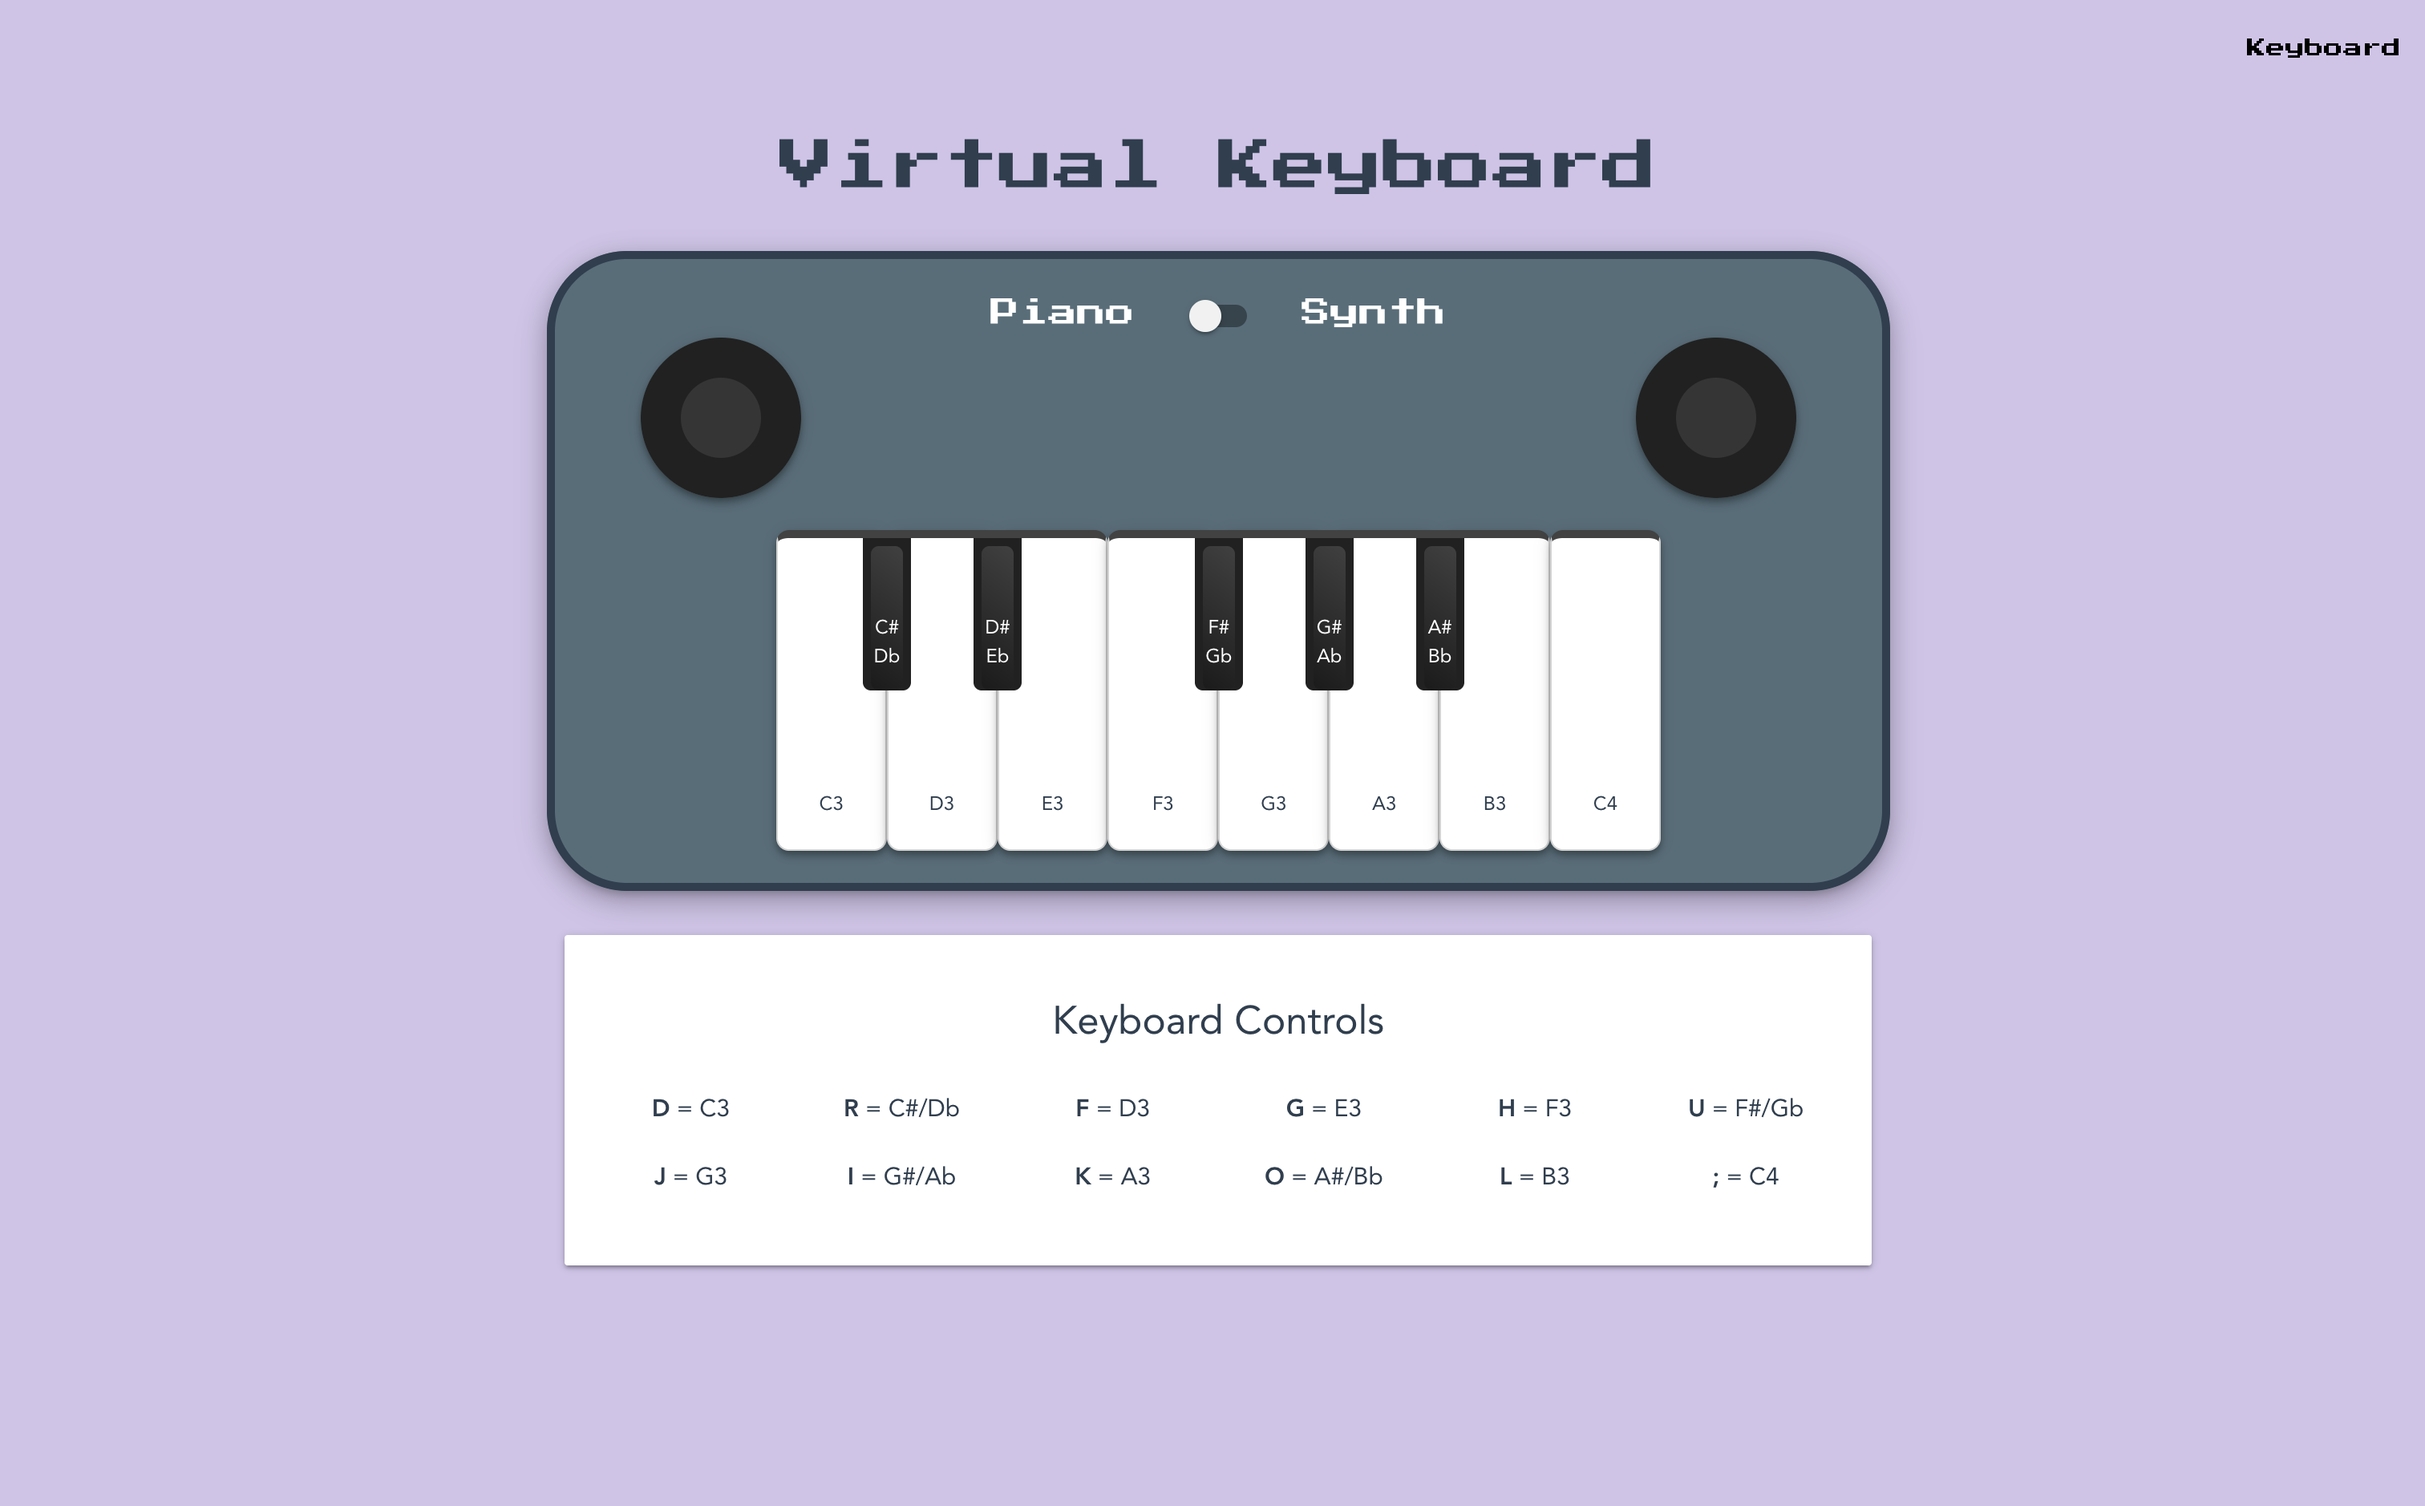
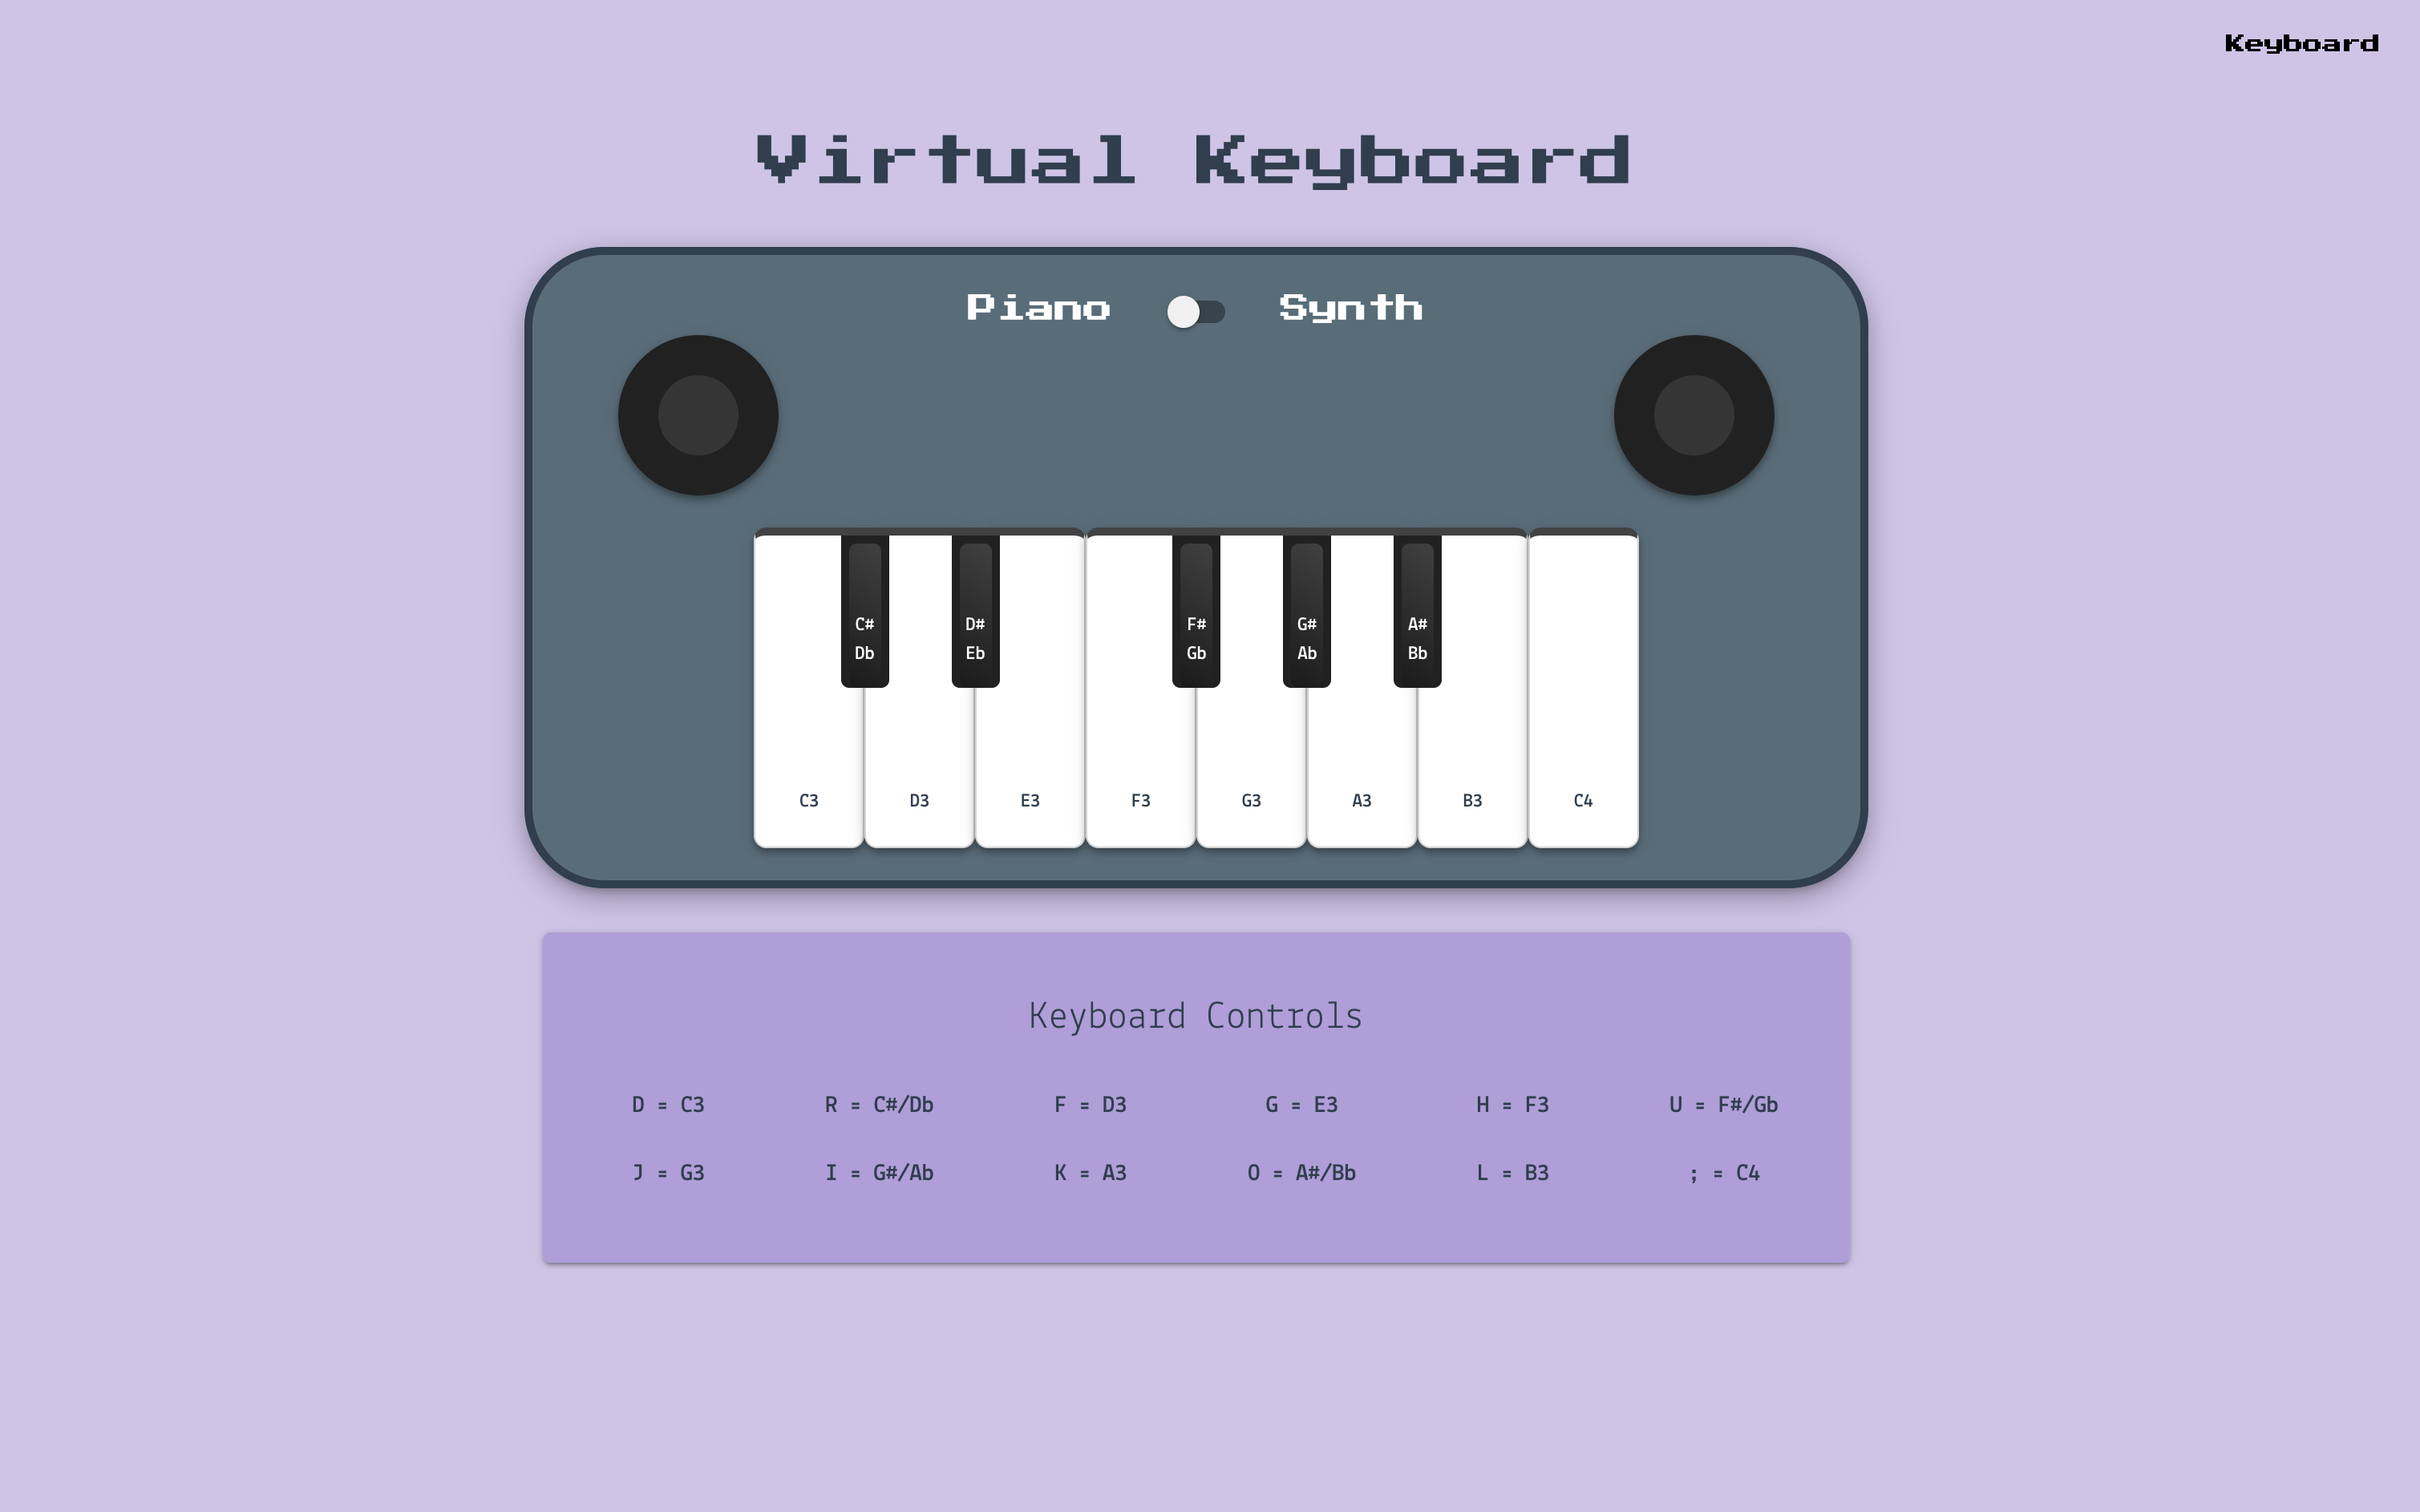
updates

Changed region(s): [[0.1869, 0.1544, 0.7787, 0.8647], [0.3115, 0.0927, 0.6852, 0.1235], [0.9344, 0.0, 0.9655, 0.0618]]

diff --git a/index.html b/index.html
@@ -11,7 +11,7 @@
     <link href="https://fonts.googleapis.com/css2?family=Open+Sans:wght@300&display=swap" rel="stylesheet"> 
     <link rel="preconnect" href="https://fonts.googleapis.com">
     <link rel="preconnect" href="https://fonts.gstatic.com" crossorigin>
-    <link href="https://fonts.googleapis.com/css2?family=Lekton:ital,wght@0,400;0,700;1,400&display=swap" rel="stylesheet">
+    <link href="https://fonts.googleapis.com/css2?family=Lekton:ital,wght@0,400;0,700;1,400&family=Roboto+Mono:ital,wght@0,100..700;1,100..700&display=swap" rel="stylesheet">
     <link href="https://fonts.googleapis.com/css2?family=Press+Start+2P&display=swap" rel="stylesheet">
     <link href='https://fonts.googleapis.com/css?family=Inconsolata' rel='stylesheet' type='text/css'>
     <link href="https://fonts.googleapis.com/icon?family=Material+Icons" rel="stylesheet">
